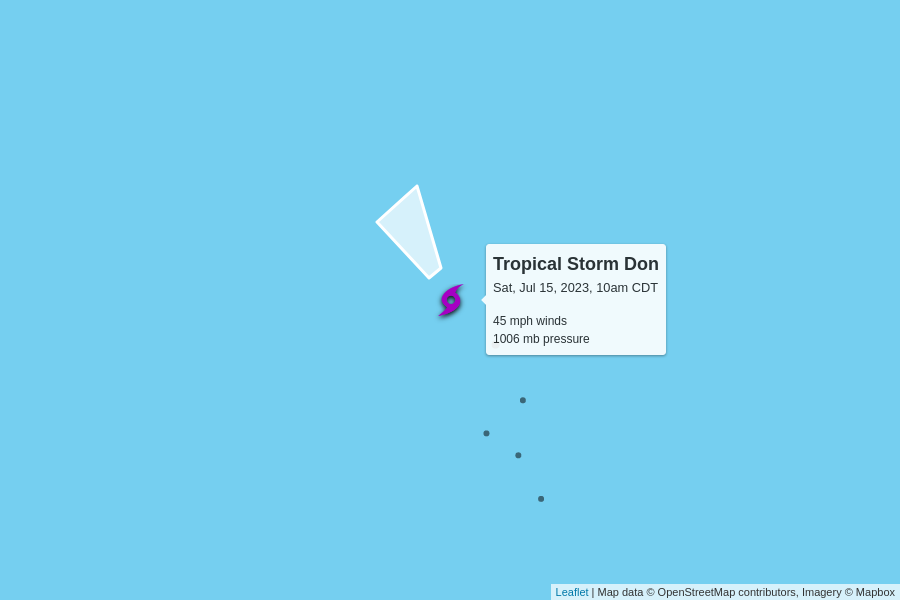
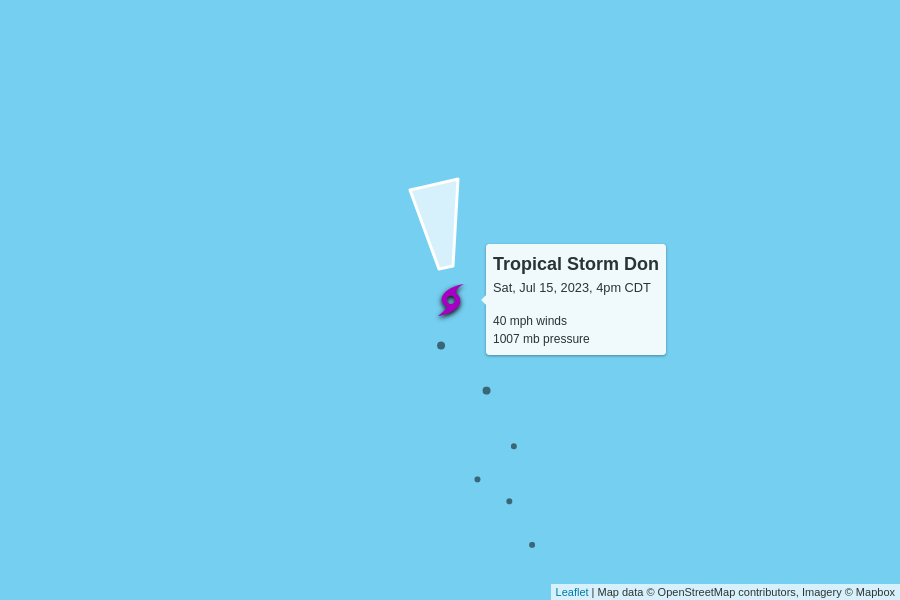
automatic update

diff --git a/docs/index.html b/docs/index.html
@@ -100,7 +100,7 @@
         <td colspan="6" class="storm category-0" >
           <h2>
             Tropical Storm Don
-            <p class="updated">last updated <span data-time>2023-07-15T15:00:00.000Z</span></p>
+            <p class="updated">last updated <span data-time>2023-07-15T21:00:00.000Z</span></p>
           </h2>
         </td>
       </tr>
@@ -115,12 +115,12 @@
       </tr>
       <tr>
         <td class="spacer"></td>
-        <td>45 mph</td>
-        <td>1006 mb</td>
+        <td>40 mph</td>
+        <td>1007 mb</td>
         <td>
-          9 mph to the northwest
+          9 mph to the north
           <br/>
-          <span style="display: inline-block; font-size: 1.5em; transform: rotate(325deg);">↑</span>
+          <span style="display: inline-block; font-size: 1.5em; transform: rotate(350deg);">↑</span>
         </td>
         <td><a href="https://raw.githubusercontent.com/mgwalker/atlantic-hurricanes/main/data/csv/AL052023.csv">AL052023.csv</a></td>
         <td><a href="https://www.nhc.noaa.gov/archive/2023/DON.shtml?">NHC advisories</a></td>
